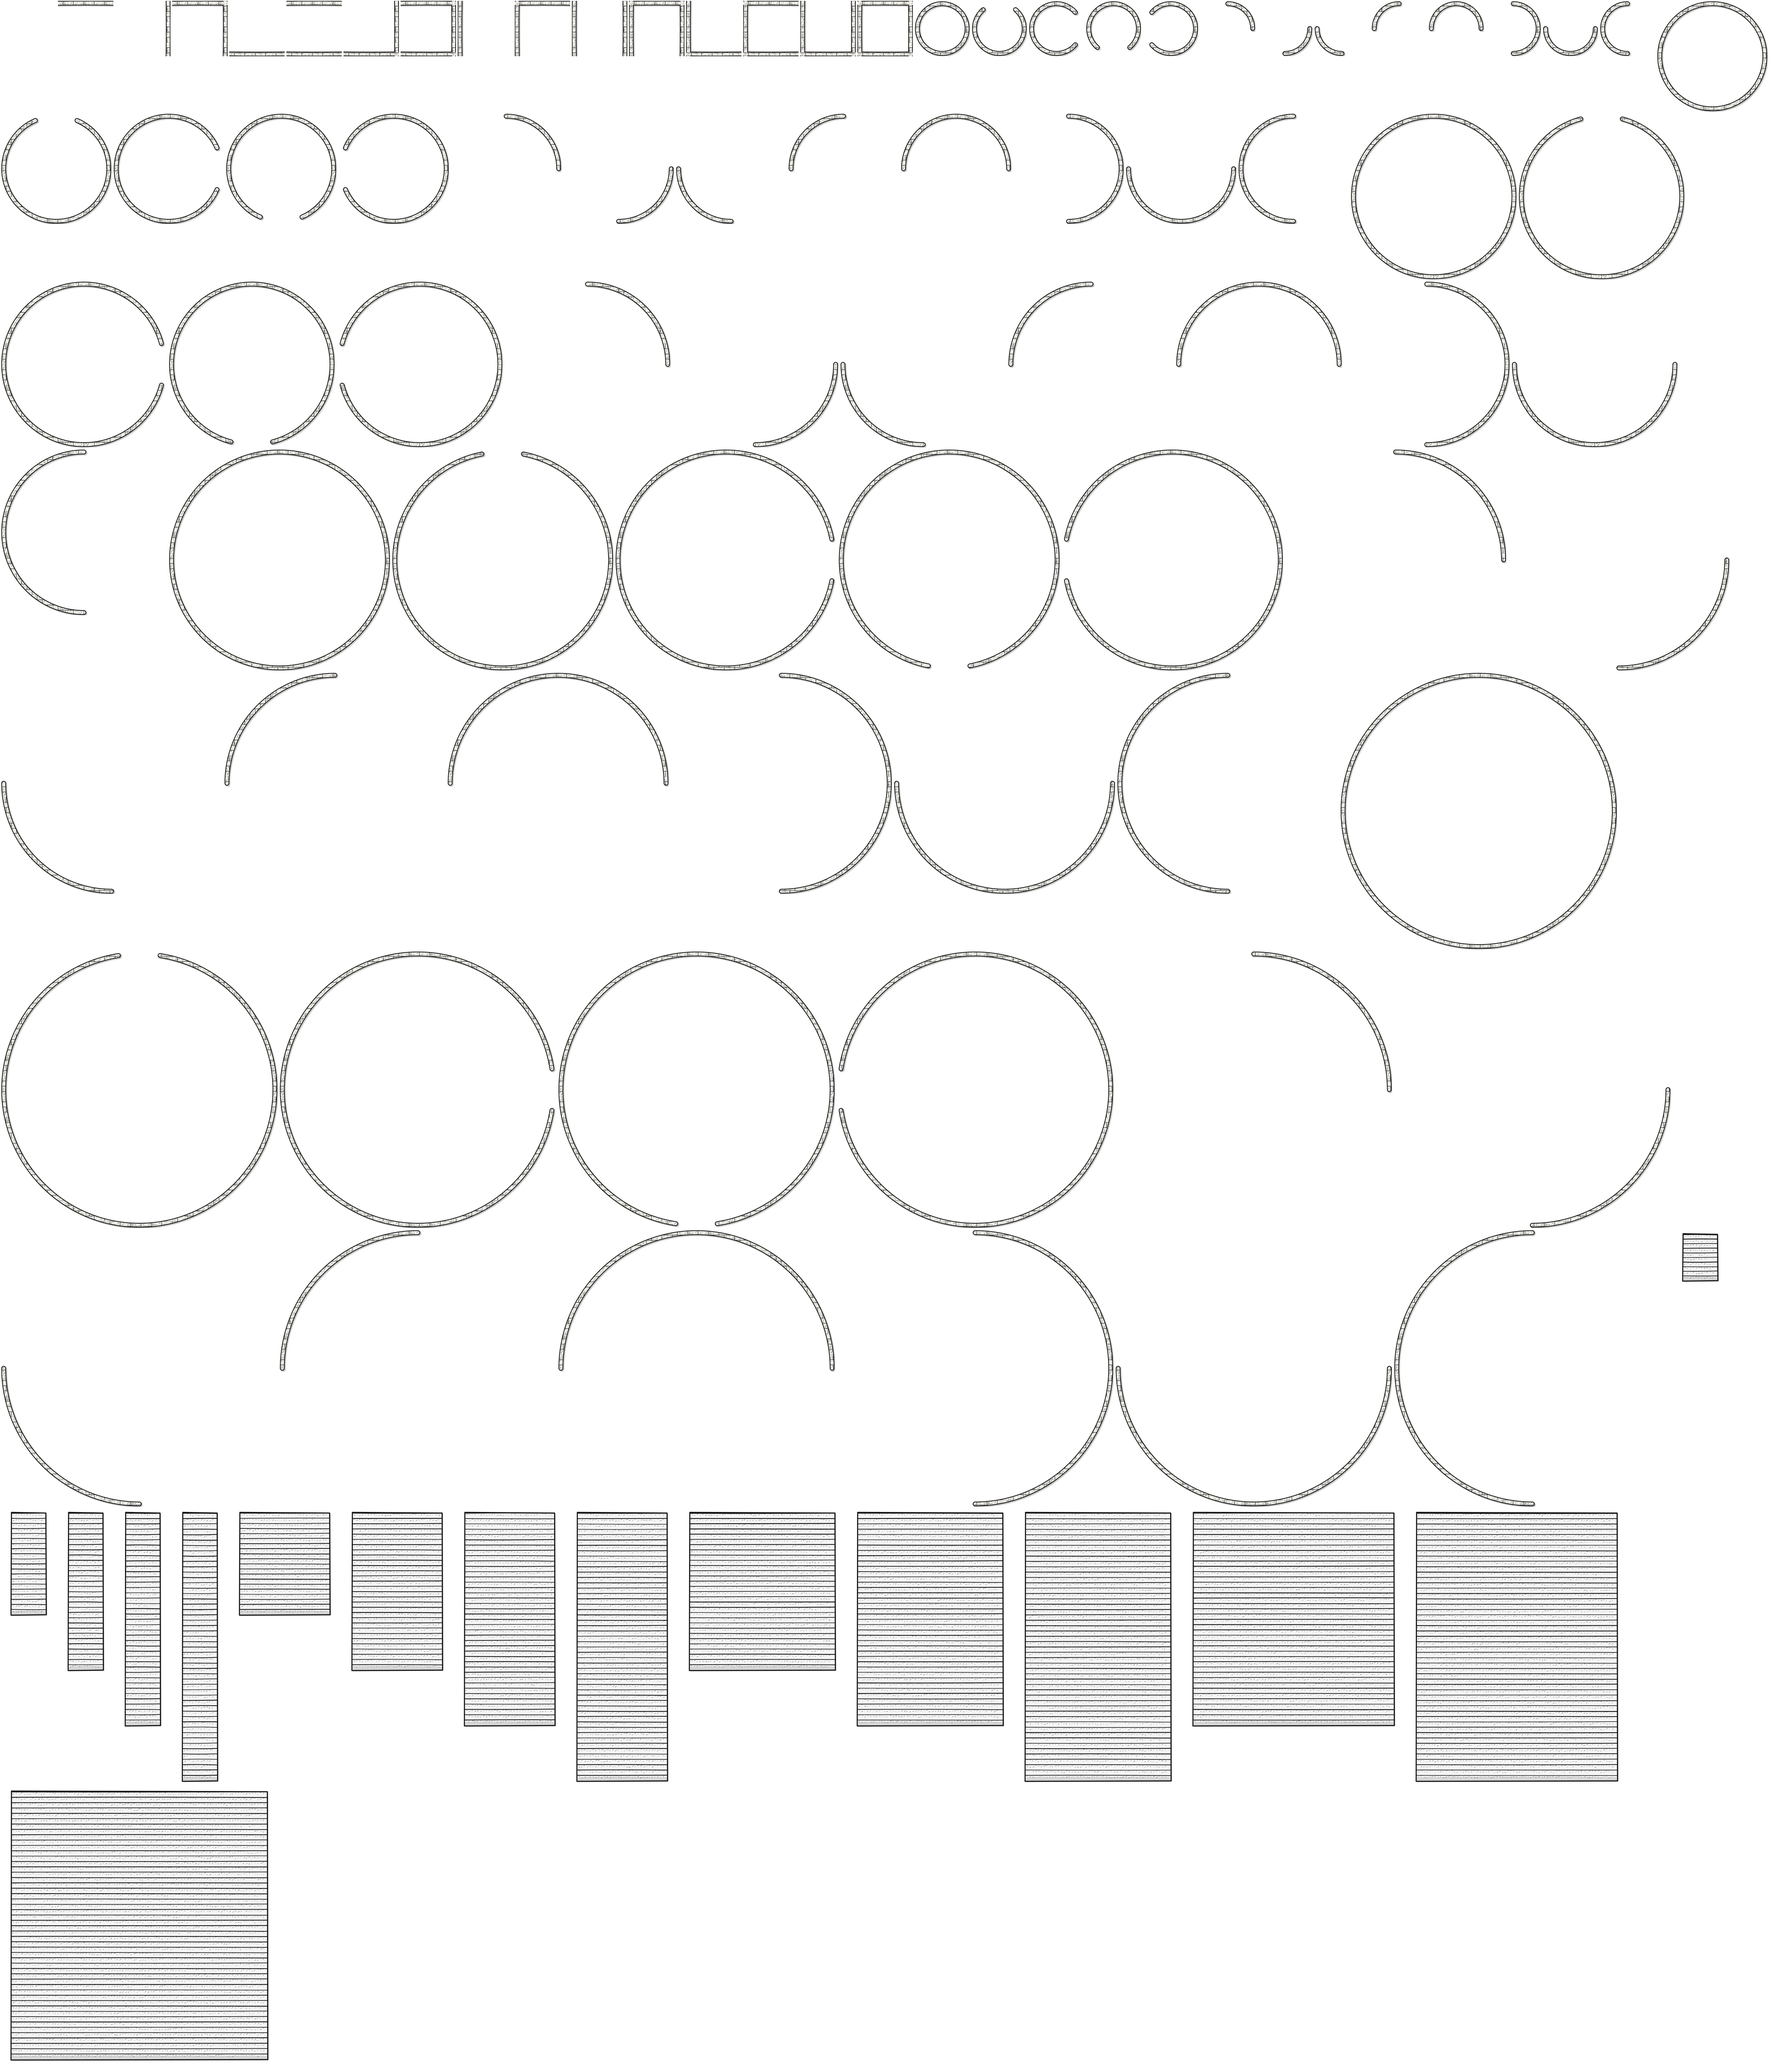
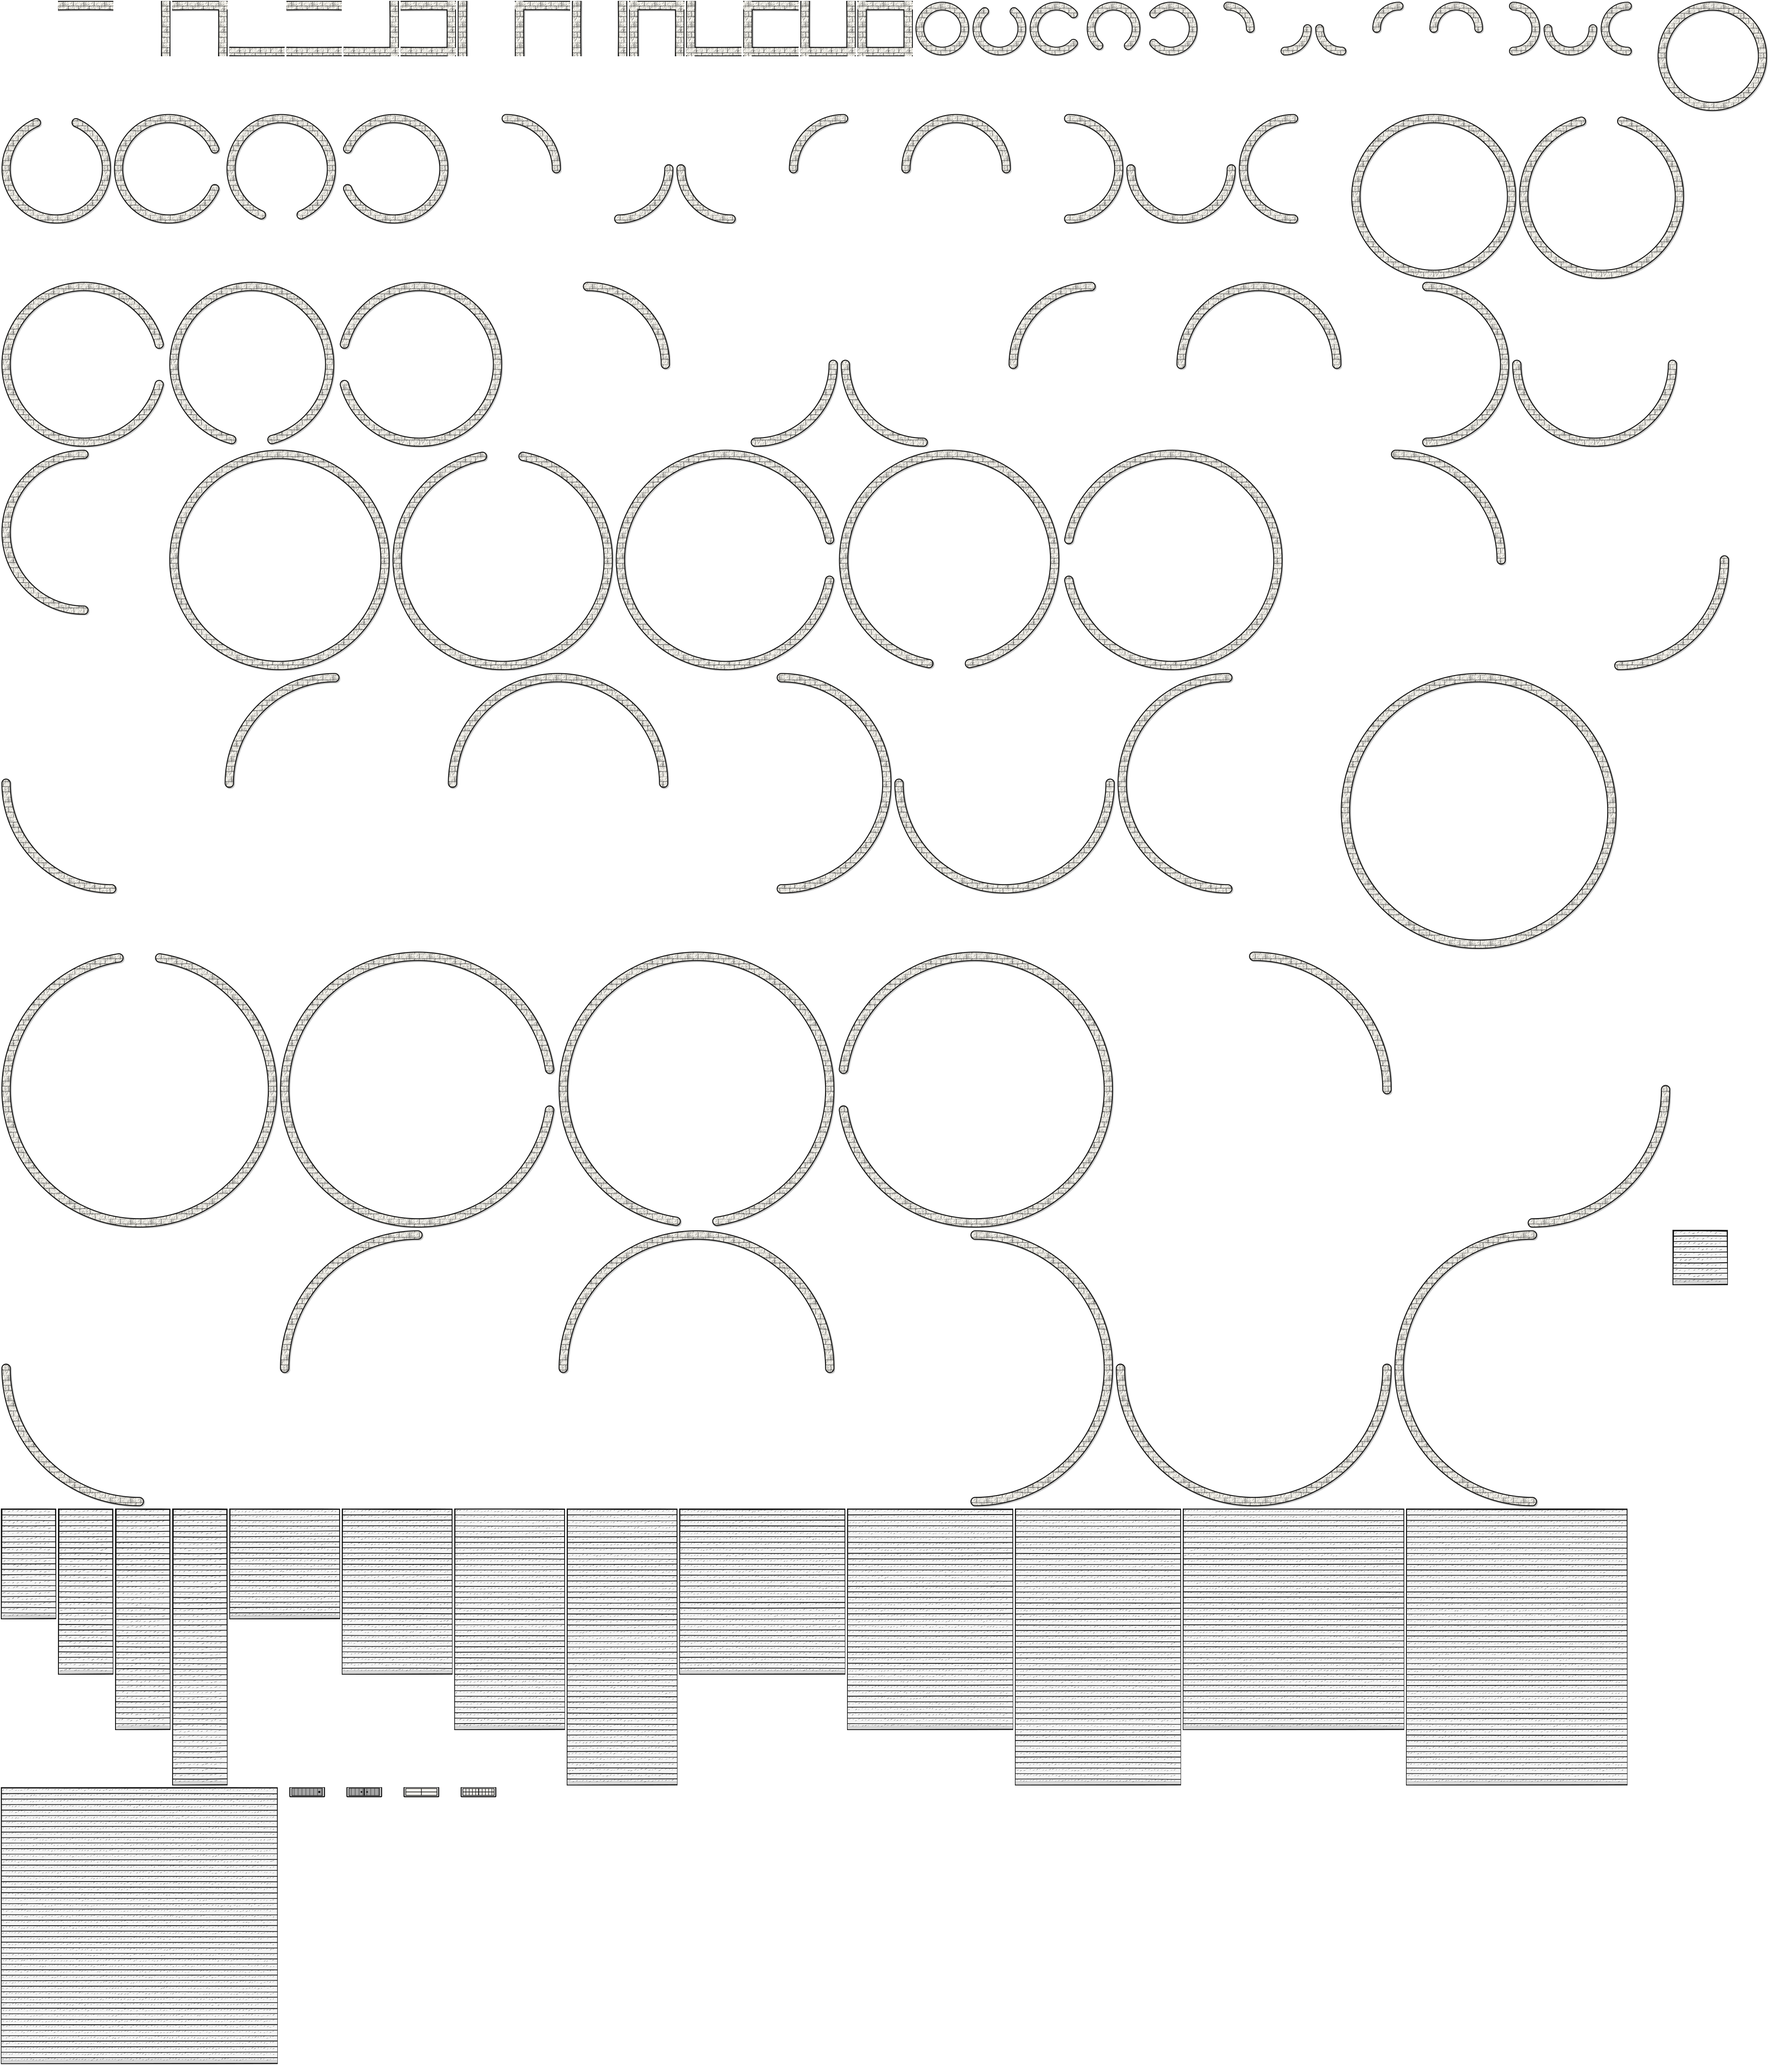
Release 0.6.13: fuller stairs, thick walls, doors and windows, saved map deletion

diff --git a/styles/d20age.css b/styles/d20age.css
@@ -946,3 +946,5 @@
 .d20-dungeon-selection small{flex:1}
 .d20-dungeon-ghost{pointer-events:none;opacity:.55;outline:2px dashed #685436;z-index:999}
 .d20-dungeon-ghost[hidden]{display:none!important}
+.d20-dungeon-saves{flex-wrap:wrap}
+.d20-dungeon-saves button[data-command=delete]{color:#852c22;border-color:#852c22}

diff --git a/README.md b/README.md
@@ -24,14 +24,14 @@ Crie personagens com orientação em cada etapa, consulte equipamentos e magias 
 - ⚙ **Ajustes da mesa** — Configurações de medidas, carga, combate e permissões do calendário.
 - 🖼 **Ambientação visual** — Capa do sistema e logotipo personalizada na pausa do Foundry.
 
-- 🗺 **Atlas de Masmorras** — Cartografia colaborativa em Notas de Diário, com paredes, arcos e escadas em duas paletas. O mapa é independente da cena real.
+- 🗺 **Atlas de Masmorras** — Cartografia colaborativa em Notas de Diário, com paredes, arcos, escadas, portas e janelas em duas paletas. O mapa é independente da cena real.
 
 ## ⚙ Compatibilidade
 
 | Requisito | Versão |
 | ---------- | ------- |
 | Foundry VTT | 13 e 14 |
-| D20Age para Foundry | 0.6.12 |
+| D20Age para Foundry | 0.6.13 |
 | Material de referência | Livro Base V2 |
 
 O D20Age é um **sistema de jogo independente** para Foundry VTT. Não requer outro sistema instalado.

diff --git a/README-ENGLISH.md b/README-ENGLISH.md
@@ -24,14 +24,14 @@ Create characters with guidance at every step, browse equipment and spells direc
 - ⚙ **Game Settings** — Options for measurement, encumbrance, combat, and calendar permissions.
 - 🖼 **Visual Atmosphere** — Custom system artwork and a branded logo on Foundry's pause screen.
 
-- 🗺 **Dungeon Atlas** — Collaborative mapping in Journal Notes, with walls, arcs and stairs in two palettes. The map is independent of the actual scene.
+- 🗺 **Dungeon Atlas** — Collaborative mapping in Journal Notes, with walls, arcs, stairs, doors and windows in two palettes. The map is independent of the actual scene.
 
 ## ⚙ Compatibility
 
 | **Requirement** | **Version** |
 | --- | --- |
 | Foundry VTT | 13 |
-| D20Age for Foundry | 0.6.12 |
+| D20Age for Foundry | 0.6.13 |
 | Reference Material | Core Rulebook V2 |
 
 D20Age is a **standalone game system** for Foundry VTT. No additional game system is required.

diff --git a/CHANGELOG.md b/CHANGELOG.md
@@ -79,3 +79,9 @@ Estrutura inicial para Foundry V13, modelos de dados, fichas monocromáticas de 
 - Atlas com miniaturas limitadas, prévia de posição/rotação, zoom e modos de desenho e borracha.
 - Mapas nomeados salvos no diário compartilhado, disponíveis em outras cenas.
 - Exportação pelo mestre de mapas salvos como Tiles independentes em cenas quadradas.
+
+## 0.6.13
+
+- Escadas ocupam todo o grid; paredes mais espessas.
+- Portas simples, duplas, janelas e janelas gradeadas.
+- Exclusão confirmada de mapas salvos pelo grupo.
